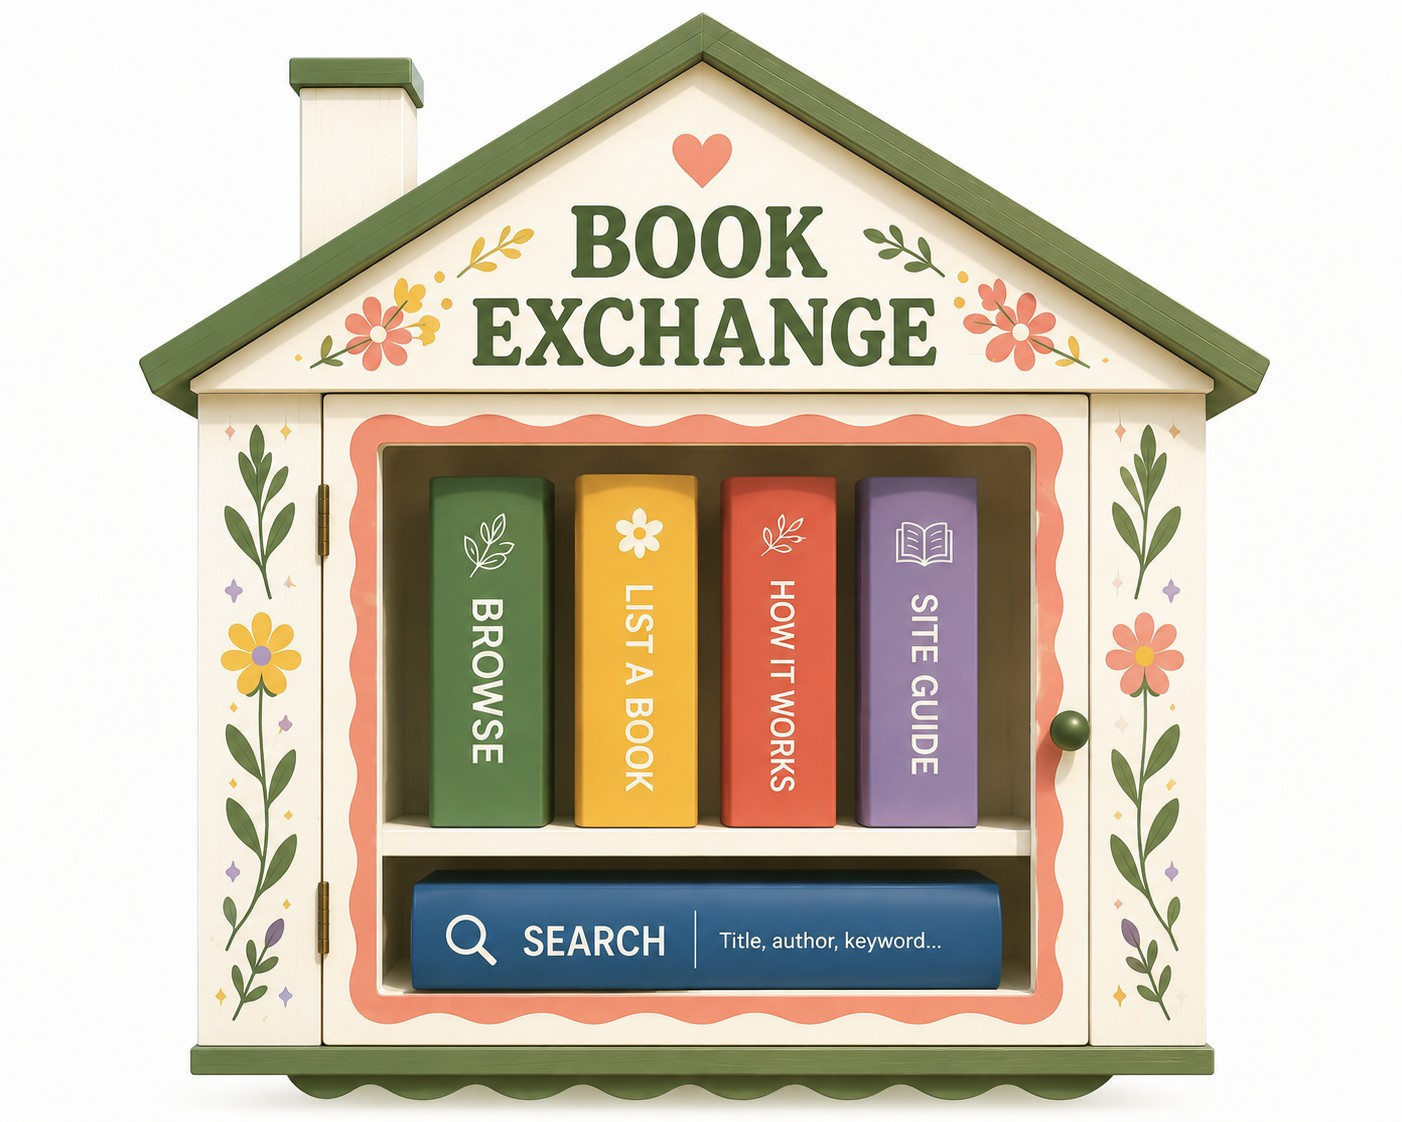
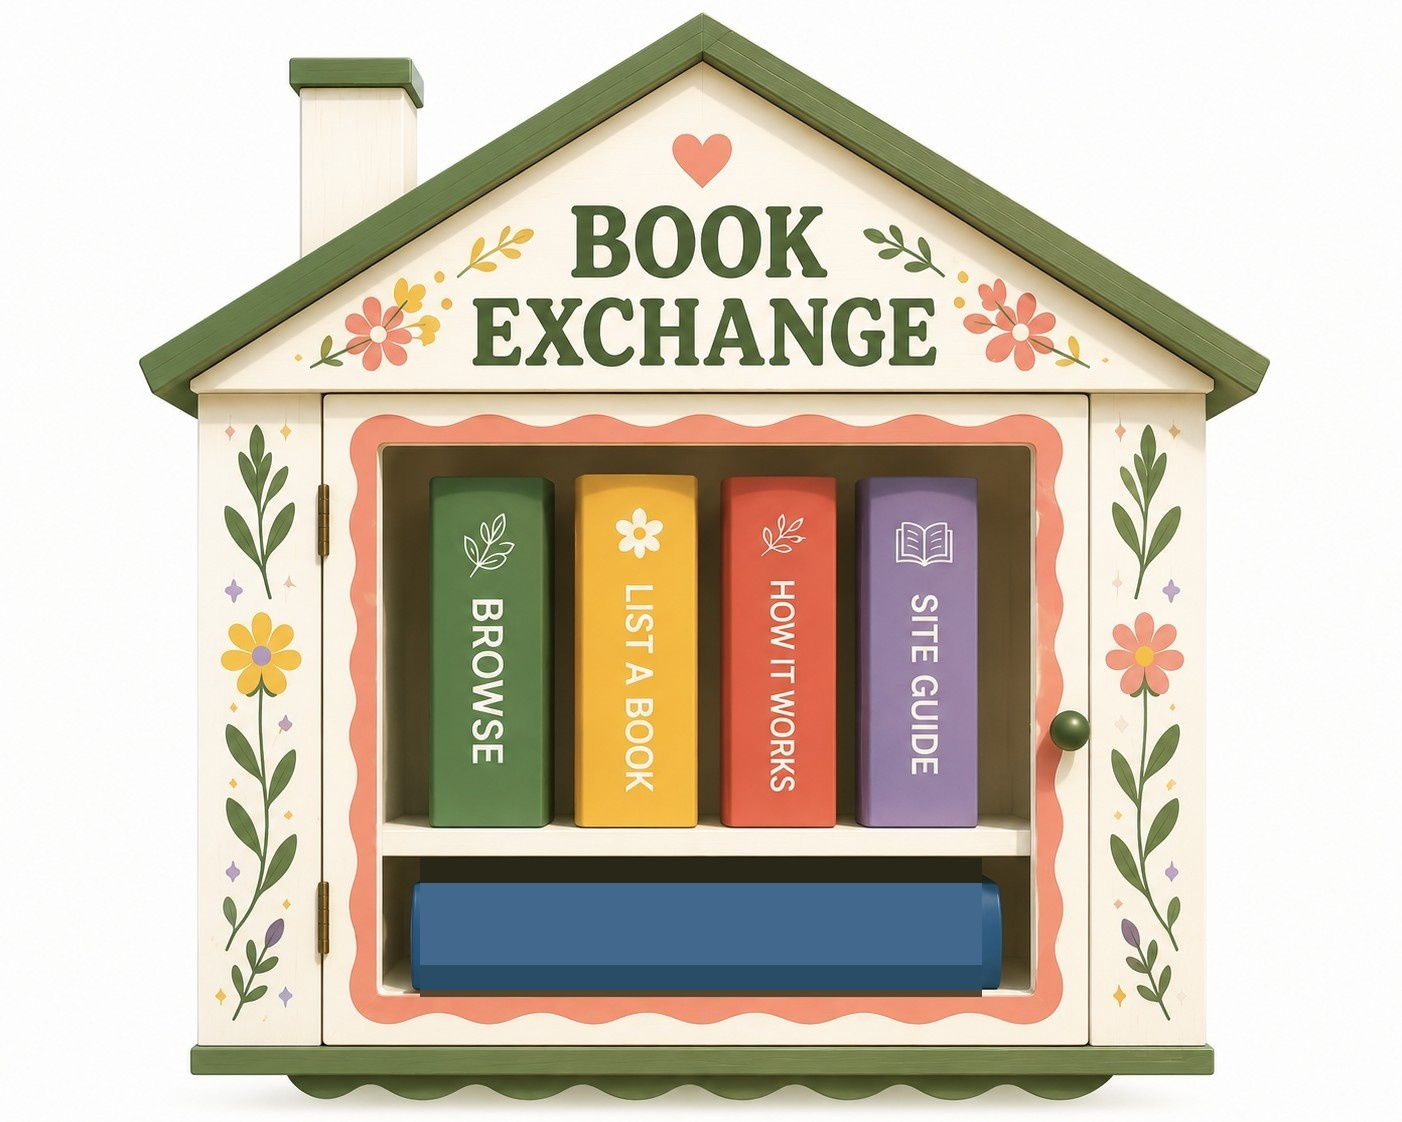
feat: libraries page, radius filter, nav updates, hero book link
- Add ½ mi and 1 mi distance options to radius filter
- Radius ring on map shows selected distance; click map to set center
- List filters to viewport bounds when "All" is selected
- Fix Leaflet double-init by switching BoundsTracker to useMapEvents
- Move Leaflet CSS to globals.css to fix hydration blank page
- Nav: rename Browse → Browse Posted Books, Locations → Libraries
- Hero blue book now links to /locations with overlay text
- Remove old image text from hero-bg.jpeg via pixel patching

Changed region(s): [[0.276, 0.7799, 0.7054, 0.9046]]

diff --git a/app/locations/LocationsClient.tsx b/app/locations/LocationsClient.tsx
@@ -1,7 +1,7 @@
 'use client'
 import { useState, useEffect, useMemo } from 'react'
 import dynamic from 'next/dynamic'
-import type { LibraryLocation } from './MapView'
+import type { LibraryLocation, Bounds } from './MapView'
 
 const MapView = dynamic(() => import('./MapView'), {
   ssr: false,
@@ -51,12 +51,14 @@ async function geocode(query: string): Promise<[number, number] | null> {
 }
 
 const DISTANCE_OPTIONS = [
-  { val: 0,  label: 'All' },
-  { val: 5,  label: '5 mi' },
-  { val: 10, label: '10 mi' },
-  { val: 25, label: '25 mi' },
-  { val: 50, label: '50 mi' },
-  { val: 100,label: '100 mi' },
+  { val: 0,   label: 'All' },
+  { val: 0.5, label: '½ mi' },
+  { val: 1,   label: '1 mi' },
+  { val: 5,   label: '5 mi' },
+  { val: 10,  label: '10 mi' },
+  { val: 25,  label: '25 mi' },
+  { val: 50,  label: '50 mi' },
+  { val: 100, label: '100 mi' },
 ]
 
 type FlyTo = { center: [number, number]; zoom: number; nonce: number }
@@ -70,6 +72,7 @@ export default function LocationsClient() {
   const [searching, setSearching] = useState(false)
   const [distance, setDistance] = useState(0)
   const [geoLoading, setGeoLoading] = useState(false)
+  const [mapBounds, setMapBounds] = useState<Bounds | null>(null)
 
   // Add location state
   const [addMode, setAddMode] = useState(false)
@@ -97,6 +100,9 @@ export default function LocationsClient() {
     let result = locations
     if (distance > 0 && userCoords) {
       result = result.filter(l => haversine(userCoords[0], userCoords[1], l.lat, l.lng) <= distance)
+    } else if (distance === 0 && mapBounds) {
+      const [[swLat, swLng], [neLat, neLng]] = mapBounds
+      result = result.filter(l => l.lat >= swLat && l.lat <= neLat && l.lng >= swLng && l.lng <= neLng)
     }
     if (userCoords) {
       result = [...result].sort((a, b) =>
@@ -105,14 +111,14 @@ export default function LocationsClient() {
       )
     }
     return result
-  }, [locations, userCoords, distance])
+  }, [locations, userCoords, distance, mapBounds])
 
   function applyLocation(coords: [number, number], label: string, zoom = 12) {
     setUserCoords(coords)
     setSearchLabel(label)
     setFlyTo({ center: coords, zoom, nonce: Date.now() })
-    // Auto-apply 25 mi filter when a location is set (if currently showing All)
-    if (distance === 0) setDistance(25)
+    // Auto-apply 5 mi filter when a location is set (if currently showing All)
+    if (distance === 0) setDistance(5)
   }
 
   function clearSearch() {
@@ -146,6 +152,13 @@ export default function LocationsClient() {
     setSearching(false)
     if (coords) applyLocation(coords, search.trim())
     else alert('Location not found. Try a city name or full address.')
+  }
+
+  function handleSetCenter(lat: number, lng: number) {
+    const coords: [number, number] = [lat, lng]
+    setUserCoords(coords)
+    setSearchLabel('Map pin')
+    if (distance === 0) setDistance(5)
   }
 
   function handleMapClick(lat: number, lng: number) {
@@ -223,16 +236,24 @@ export default function LocationsClient() {
         {/* ── Distance filter + active search label ── */}
         <div className="flex-shrink-0 bg-white border-b border-[#f3f4f6] px-3 md:px-5 py-1.5 flex items-center gap-1.5 flex-wrap">
           <span className="font-bold text-[11px] text-[#999] shrink-0">Distance:</span>
-          {DISTANCE_OPTIONS.map(opt => (
-            <button key={opt.val} onClick={() => setDistance(opt.val)}
-              className={`px-2.5 py-0.5 rounded-full font-extrabold text-[11px] border-2 transition-colors ${
-                distance === opt.val
-                  ? 'bg-bk-orange border-bk-orange text-white'
-                  : 'bg-white border-[#e5e7eb] text-[#666] hover:border-bk-orange'
-              }`}>
-              {opt.label}
-            </button>
-          ))}
+          {DISTANCE_OPTIONS.map(opt => {
+            const needsLocation = opt.val > 0 && !userCoords
+            return (
+              <button
+                key={opt.val}
+                onClick={() => !needsLocation && setDistance(opt.val)}
+                title={needsLocation ? 'Search a city or use My Location first' : undefined}
+                className={`px-2.5 py-0.5 rounded-full font-extrabold text-[11px] border-2 transition-colors ${
+                  distance === opt.val
+                    ? 'bg-bk-orange border-bk-orange text-white'
+                    : needsLocation
+                    ? 'bg-white border-[#e5e7eb] text-[#ccc] cursor-not-allowed'
+                    : 'bg-white border-[#e5e7eb] text-[#666] hover:border-bk-orange cursor-pointer'
+                }`}>
+                {opt.label}
+              </button>
+            )
+          })}
 
           {/* Active search label with clear */}
           {searchLabel && (
@@ -244,8 +265,8 @@ export default function LocationsClient() {
               </button>
             </div>
           )}
-          {distance > 0 && !userCoords && (
-            <span className="text-[11px] font-bold text-bk-orange ml-1">⚠ Search a location first</span>
+          {!userCoords && (
+            <span className="text-[11px] font-semibold text-[#bbb] ml-1">Search a city or click the map to set radius center</span>
           )}
           <span className="ml-auto font-bold text-[11px] text-[#aaa] whitespace-nowrap">
             {lflCount} LFL{lflCount !== 1 ? 's' : ''} · {libCount} librar{libCount !== 1 ? 'ies' : 'y'}
@@ -319,6 +340,10 @@ export default function LocationsClient() {
               addMode={addMode}
               onMapClick={handleMapClick}
               onReport={setReportTarget}
+              radiusCenter={userCoords}
+              radiusMiles={distance}
+              onBoundsChange={setMapBounds}
+              onSetCenter={handleSetCenter}
             />
           </div>
 

diff --git a/app/locations/MapView.tsx b/app/locations/MapView.tsx
@@ -1,8 +1,7 @@
 'use client'
-import 'leaflet/dist/leaflet.css'
-import { MapContainer, TileLayer, Marker, Popup, useMap, useMapEvents } from 'react-leaflet'
+import { MapContainer, TileLayer, Marker, Popup, Circle, useMap, useMapEvents } from 'react-leaflet'
 import L from 'leaflet'
-import { useEffect } from 'react'
+import { useEffect, useRef } from 'react'
 
 export type LibraryLocation = {
   id: string
@@ -15,6 +14,8 @@ export type LibraryLocation = {
   description?: string
   isUserAdded?: boolean
 }
+
+export type Bounds = [[number, number], [number, number]]
 
 function pinIcon(type: 'lfl' | 'library' | 'pending') {
   const c = {
@@ -38,6 +39,20 @@ function pinIcon(type: 'lfl' | 'library' | 'pending') {
   })
 }
 
+function centerIcon() {
+  return L.divIcon({
+    className: '',
+    html: `<div style="
+      width:18px;height:18px;border-radius:50%;
+      background:#f97316;border:3px solid white;
+      outline:2px solid #c2410c;
+      box-shadow:0 2px 8px rgba(0,0,0,0.4);
+    "></div>`,
+    iconSize: [18, 18],
+    iconAnchor: [9, 9],
+  })
+}
+
 function MapFly({ center, zoom }: { center: [number, number]; zoom: number }) {
   const map = useMap()
   useEffect(() => {
@@ -47,9 +62,32 @@ function MapFly({ center, zoom }: { center: [number, number]; zoom: number }) {
   return null
 }
 
-function ClickHandler({ active, onMapClick }: { active: boolean; onMapClick: (lat: number, lng: number) => void }) {
+function BoundsTracker({ onBoundsChange }: { onBoundsChange: (b: Bounds) => void }) {
+  const cbRef = useRef(onBoundsChange)
+  cbRef.current = onBoundsChange
   useMapEvents({
-    click(e) { if (active) onMapClick(e.latlng.lat, e.latlng.lng) },
+    moveend(e) {
+      const b = e.target.getBounds()
+      cbRef.current([[b.getSouth(), b.getWest()], [b.getNorth(), b.getEast()]])
+    },
+    zoomend(e) {
+      const b = e.target.getBounds()
+      cbRef.current([[b.getSouth(), b.getWest()], [b.getNorth(), b.getEast()]])
+    },
+  })
+  return null
+}
+
+function ClickHandler({ addMode, onMapClick, onSetCenter }: {
+  addMode: boolean
+  onMapClick: (lat: number, lng: number) => void
+  onSetCenter: (lat: number, lng: number) => void
+}) {
+  useMapEvents({
+    click(e) {
+      if (addMode) onMapClick(e.latlng.lat, e.latlng.lng)
+      else onSetCenter(e.latlng.lat, e.latlng.lng)
+    },
   })
   return null
 }
@@ -61,21 +99,41 @@ interface Props {
   addMode: boolean
   onMapClick: (lat: number, lng: number) => void
   onReport: (loc: LibraryLocation) => void
+  radiusCenter: [number, number] | null
+  radiusMiles: number
+  onBoundsChange: (b: Bounds) => void
+  onSetCenter: (lat: number, lng: number) => void
 }
 
-export default function MapView({ locations, pendingPin, flyTo, addMode, onMapClick, onReport }: Props) {
+export default function MapView({
+  locations, pendingPin, flyTo, addMode,
+  onMapClick, onReport, radiusCenter, radiusMiles,
+  onBoundsChange, onSetCenter,
+}: Props) {
   return (
     <MapContainer
       center={[39.5, -98.35]}
       zoom={4}
-      style={{ width: '100%', height: '100%', cursor: addMode ? 'crosshair' : undefined }}
+      style={{ width: '100%', height: '100%', cursor: addMode ? 'crosshair' : 'crosshair' }}
     >
       <TileLayer
         attribution='&copy; <a href="https://www.openstreetmap.org/copyright">OpenStreetMap</a>'
         url="https://{s}.tile.openstreetmap.org/{z}/{x}/{y}.png"
       />
-      <ClickHandler active={addMode} onMapClick={onMapClick} />
+      <BoundsTracker onBoundsChange={onBoundsChange} />
+      <ClickHandler addMode={addMode} onMapClick={onMapClick} onSetCenter={onSetCenter} />
       {flyTo && <MapFly key={flyTo.nonce} center={flyTo.center} zoom={flyTo.zoom} />}
+
+      {radiusCenter && radiusMiles > 0 && (
+        <>
+          <Circle
+            center={radiusCenter}
+            radius={radiusMiles * 1609.344}
+            pathOptions={{ color: '#f97316', fillColor: '#f97316', fillOpacity: 0.07, weight: 2, dashArray: '6 4' }}
+          />
+          <Marker position={radiusCenter} icon={centerIcon()} interactive={false} />
+        </>
+      )}
 
       {locations.map(loc => (
         <Marker key={loc.id} position={[loc.lat, loc.lng]} icon={pinIcon(loc.type)}>

diff --git a/components/HeroBookshelf.tsx b/components/HeroBookshelf.tsx
@@ -109,11 +109,11 @@ export default function HeroBookshelf() {
           />
         ))}
 
-        {/* Search book — clickable area where the search form used to live */}
-        <button
-          aria-label="Search books"
-          onClick={doSearch}
-          onMouseEnter={() => setHovered('search')}
+        {/* Blue horizontal book — links to Libraries/Locations page */}
+        <Link
+          href="/locations"
+          aria-label="Find library locations"
+          onMouseEnter={() => setHovered('locations')}
           onMouseLeave={() => setHovered(null)}
           style={{
             position: 'absolute',
@@ -122,13 +122,27 @@ export default function HeroBookshelf() {
             width: '40%',
             height: '6%',
             borderRadius: 10,
-            border: 'none',
-            cursor: 'pointer',
-            background: hovered === 'search' ? 'rgba(37,60,110,0.35)' : 'transparent',
-            boxShadow: hovered === 'search' ? '0 8px 24px rgba(37,60,110,0.5)' : 'none',
+            display: 'flex',
+            alignItems: 'center',
+            justifyContent: 'center',
+            background: hovered === 'locations' ? 'rgba(47,89,125,0.35)' : 'transparent',
+            boxShadow: hovered === 'locations' ? '0 8px 24px rgba(37,60,110,0.5)' : 'none',
             transition: 'background 0.15s ease, box-shadow 0.15s ease',
           }}
-        />
+        >
+          <span style={{
+            fontFamily: 'Nunito, sans-serif',
+            fontWeight: 900,
+            fontSize: 'clamp(7px, 1.4vw, 13px)',
+            color: '#fff',
+            letterSpacing: '0.03em',
+            whiteSpace: 'nowrap',
+            textShadow: '0 1px 4px rgba(10,25,60,0.95), 0 0 10px rgba(10,25,60,0.8)',
+            userSelect: 'none',
+          }}>
+            Little Free Libraries &amp; Locations
+          </span>
+        </Link>
       </div>
 
       {/* Search bar below the library */}

diff --git a/components/Nav.tsx b/components/Nav.tsx
@@ -71,8 +71,8 @@ export default function Nav({ userName: serverUserName }: { userName?: string | 
 
         {/* Desktop links */}
         <div className="hidden md:flex items-center gap-[22px]">
-          <Link href="/listings" className="font-bold text-[15px] text-[#2d2d2d] hover:text-bk-orange transition-colors">Browse</Link>
-          <Link href="/locations" className="font-bold text-[15px] text-[#2d2d2d] hover:text-bk-orange transition-colors">Locations</Link>
+          <Link href="/listings" className="font-bold text-[15px] text-[#2d2d2d] hover:text-bk-orange transition-colors">Browse Posted Books</Link>
+          <Link href="/locations" className="font-bold text-[15px] text-[#2d2d2d] hover:text-bk-orange transition-colors">Libraries</Link>
           <Link href="/post" className="font-bold text-[15px] text-[#2d2d2d] hover:text-bk-orange transition-colors">Post a Book</Link>
 
           {userName ? (
@@ -157,10 +157,10 @@ export default function Nav({ userName: serverUserName }: { userName?: string | 
             </div>
           )}
           <Link href="/listings" className="flex items-center gap-3 px-5 py-4 font-bold text-[15px] text-[#2d2d2d] border-b border-gray-100 hover:bg-[#fff7ed] hover:text-bk-orange transition-colors">
-            🔍 Browse
+            🔍 Browse Posted Books
           </Link>
           <Link href="/locations" className="flex items-center gap-3 px-5 py-4 font-bold text-[15px] text-[#2d2d2d] border-b border-gray-100 hover:bg-[#fff7ed] hover:text-bk-orange transition-colors">
-            🗺 Locations
+            🗺 Libraries
           </Link>
           <Link href="/post" className="flex items-center gap-3 px-5 py-4 font-bold text-[15px] text-[#2d2d2d] border-b border-gray-100 hover:bg-[#fff7ed] hover:text-bk-orange transition-colors">
             📚 Post a Book

diff --git a/app/globals.css b/app/globals.css
@@ -1,4 +1,5 @@
 @import url('https://fonts.googleapis.com/css2?family=Pacifico&family=Nunito:wght@400;600;700;800;900&display=swap');
+@import 'leaflet/dist/leaflet.css';
 @tailwind base;
 @tailwind components;
 @tailwind utilities;
